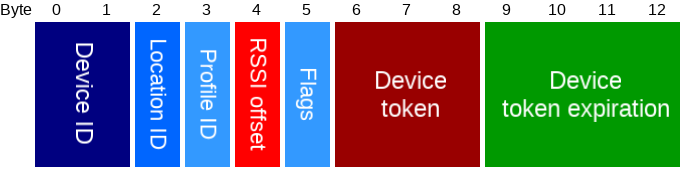
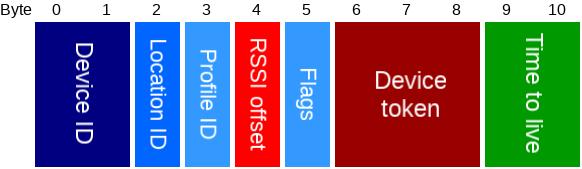
Don't advertise device id.

diff --git a/docs/BROADCAST_PROTOCOL.md b/docs/BROADCAST_PROTOCOL.md
@@ -47,8 +47,8 @@ uint16 [] | Payload | 32 | Encrypted [payload](#background_adv_payload), using 3
 Type | Name | Length in bits | Description
 --- | --- | --- | ---
 uint8 | Protocol | 2 | Protocol version = 1.
-uint16 | deviceId | 16 | ID of this device.
 uint24 | device token | 24 | Token of this device, set via command [Register tracked device](PROTOCOL.md#command_types) or [Update tracked device](#command_adv_types).
+uint16 | reserved | 16 | Reserved for future use, should be 0 for now.
 
 <a name="background_adv_payload"></a>
 #### Background broadcast payload
